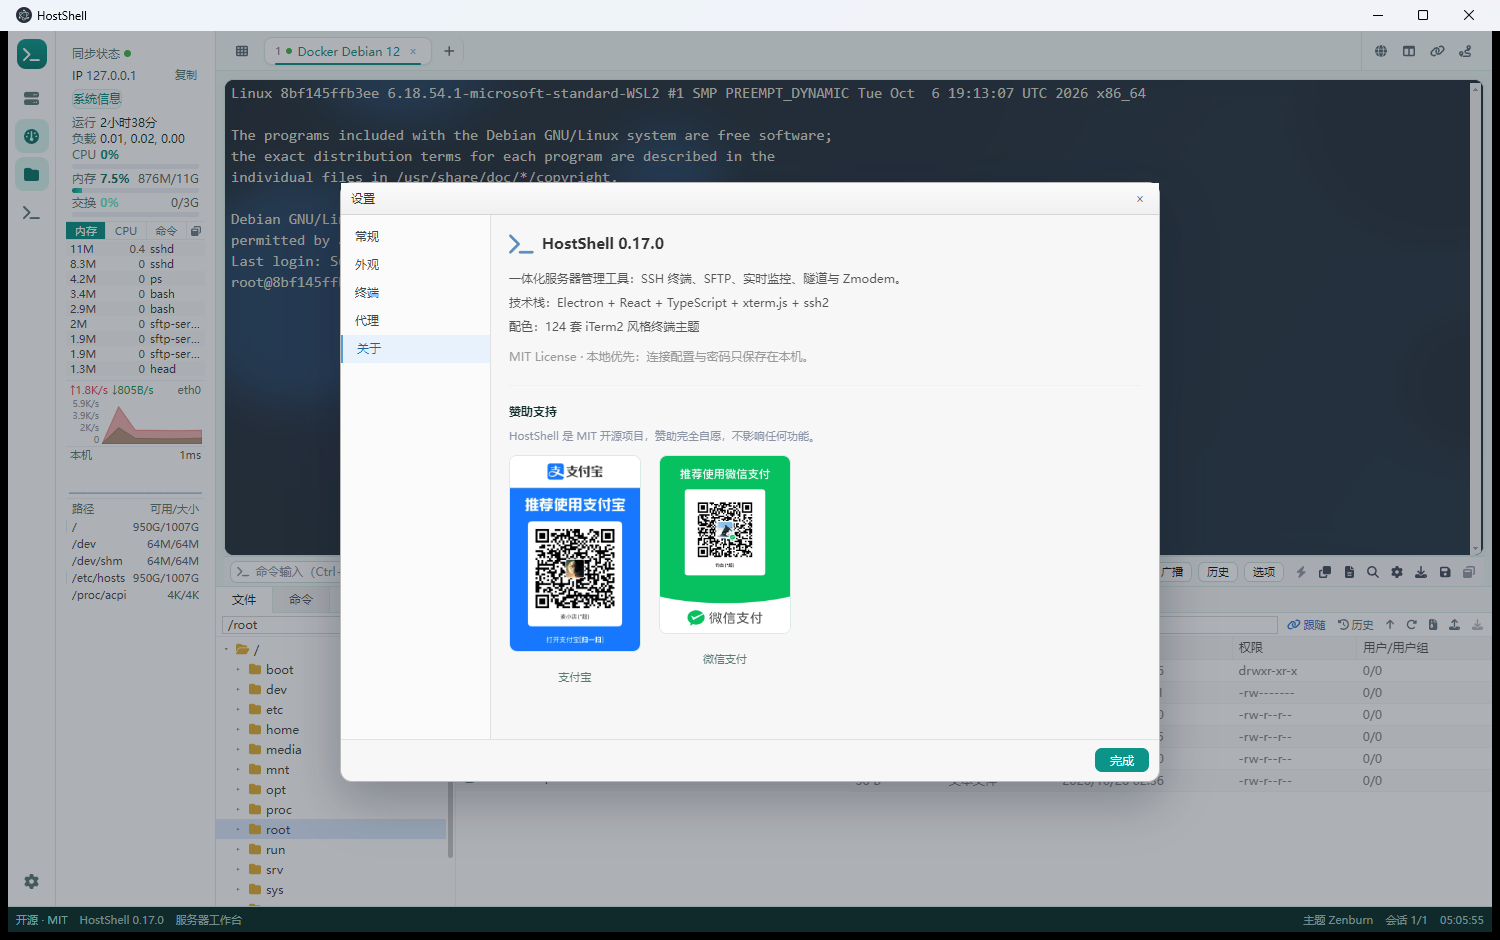
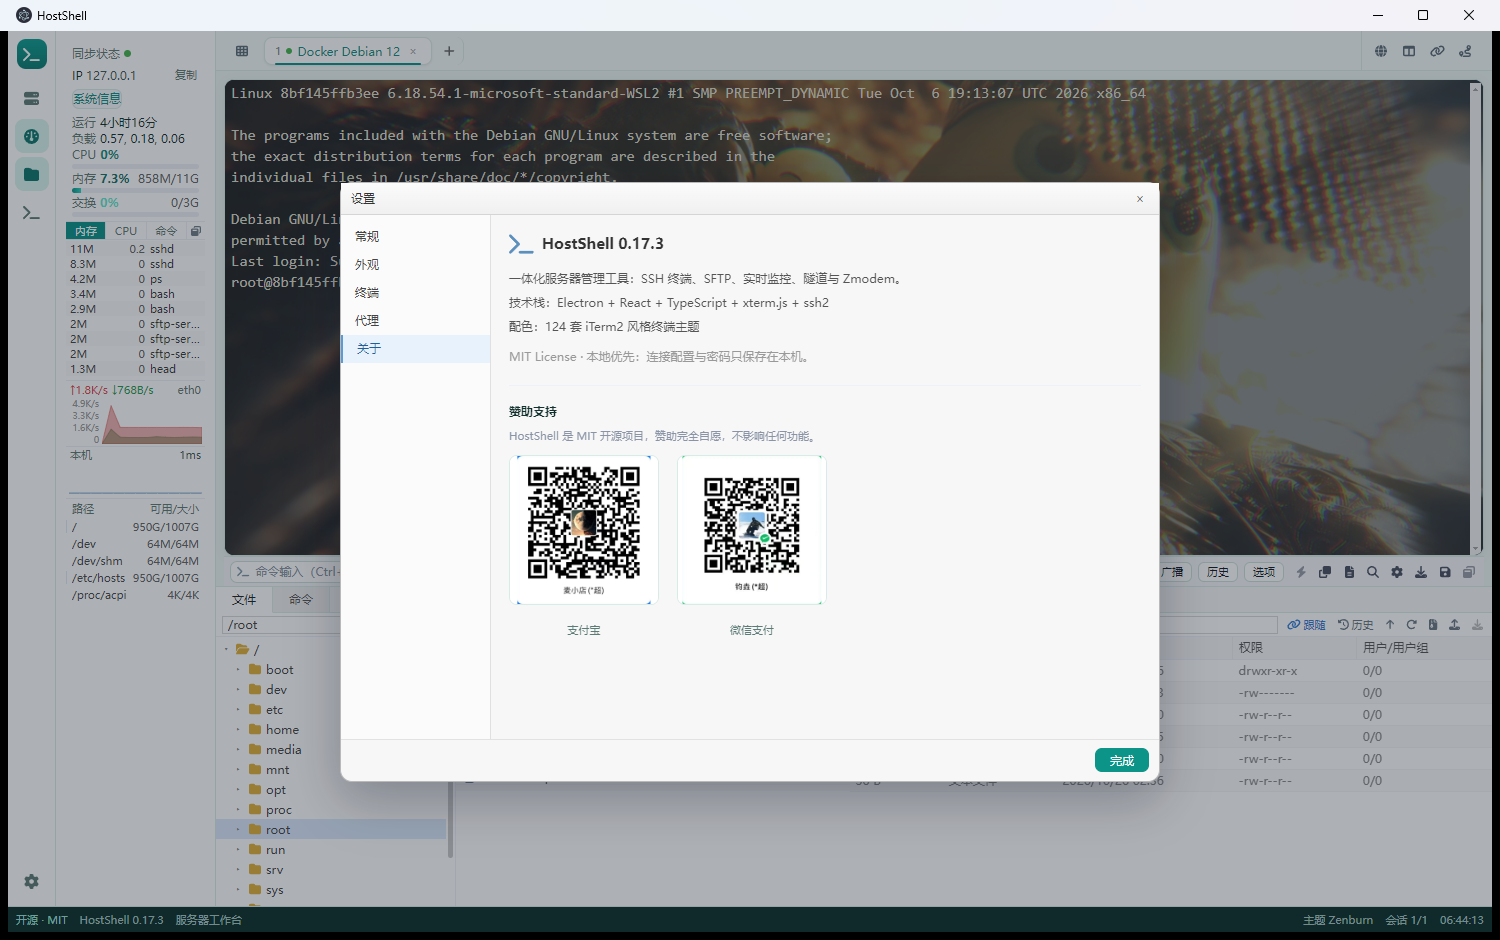
feat(sponsor): equal-size square QR images in app and docs, bump 0.17.4

diff --git a/src/renderer/src/components/SettingsModal.tsx b/src/renderer/src/components/SettingsModal.tsx
@@ -5,8 +5,8 @@ import { THEMES, FONT_FAMILIES } from '../lib/themes'
 import type { ProxyConfig } from '../types'
 import { useT } from '../i18n/useT'
 import { LOCALES, type Locale } from '../i18n'
-import alipayQr from '../assets/sponsor/alipay.jpg'
-import wechatQr from '../assets/sponsor/wechat.jpg'
+import alipayQr from '../assets/sponsor/alipay.png'
+import wechatQr from '../assets/sponsor/wechat.png'
 
 export function SettingsModal(): JSX.Element {
   const config = useApp((s) => s.config)
@@ -360,7 +360,7 @@ export function SettingsModal(): JSX.Element {
               <div style={{ lineHeight: 2, color: '#555' }}>
                 <div style={{ display: 'flex', alignItems: 'center', gap: 8, marginBottom: 8 }}>
                   <Icon name="terminal" style={{ fontSize: 22, color: '#5b8fbe' }} />
-                  <b style={{ fontSize: 15, color: '#333' }}>HostShell 0.17.3</b>
+                  <b style={{ fontSize: 15, color: '#333' }}>HostShell 0.17.4</b>
                 </div>
                 <div>一体化服务器管理工具：SSH 终端、SFTP、实时监控、隧道与 Zmodem。</div>
                 <div>技术栈：Electron + React + TypeScript + xterm.js + ssh2</div>

diff --git a/src/renderer/src/components/StatusBar.tsx b/src/renderer/src/components/StatusBar.tsx
@@ -19,7 +19,7 @@ export function StatusBar(): JSX.Element {
     <div className="statusbar">
       <div className="left">
         <span className="link">{t('status.opensource')}</span>
-        <span>HostShell 0.17.3</span>
+        <span>HostShell 0.17.4</span>
         <span>{t('status.workbench')}</span>
       </div>
       <div className="right">

diff --git a/src/renderer/src/styles.css b/src/renderer/src/styles.css
@@ -2367,8 +2367,9 @@ body {
   text-align: center;
 }
 .sponsor-qr img {
-  width: 132px;
-  height: auto;
+  width: 150px;
+  height: 150px;
+  object-fit: contain;
   border: 1px solid var(--border);
   border-radius: 8px;
   background: #fff;

diff --git a/README.md b/README.md
@@ -53,17 +53,17 @@ npm run dist:setup   # 安装包 → release/HostShell-<version>-setup.exe（NSI
 | 产物 | 说明 |
 |---|---|
 | `release/win-unpacked/` | Windows 免安装目录（232 MB），双击 `HostShell.exe` 直接运行 |
-| `release/HostShell-0.17.3-setup.exe` | Windows 安装包 **约 72 MB**：Program Files 安装、快捷方式、控制面板卸载项 |
-| `release/HostShell-0.17.3-win.zip` | Windows 绿色版 **约 98 MB** |
-| `release/HostShell-0.17.3.dmg` | macOS（Intel）安装镜像 **约 82 MB**（未签名，CI 构建） |
-| `release/HostShell-0.17.3-arm64.dmg` | macOS（Apple Silicon）安装镜像 **约 79 MB**（未签名，CI 构建） |
-| `release/HostShell-0.17.3.AppImage` | Linux 免安装包 **约 74 MB**（CI 构建） |
-| `release/hostshell_0.17.3_amd64.deb` | Debian/Ubuntu 安装包 **约 74 MB**（CI 构建） |
+| `release/HostShell-0.17.4-setup.exe` | Windows 安装包 **约 72 MB**：Program Files 安装、快捷方式、控制面板卸载项 |
+| `release/HostShell-0.17.4-win.zip` | Windows 绿色版 **约 98 MB** |
+| `release/HostShell-0.17.4.dmg` | macOS（Intel）安装镜像 **约 82 MB**（未签名，CI 构建） |
+| `release/HostShell-0.17.4-arm64.dmg` | macOS（Apple Silicon）安装镜像 **约 79 MB**（未签名，CI 构建） |
+| `release/HostShell-0.17.4.AppImage` | Linux 免安装包 **约 74 MB**（CI 构建） |
+| `release/hostshell_0.17.4_amd64.deb` | Debian/Ubuntu 安装包 **约 74 MB**（CI 构建） |
 
 安装包由 `build/installer.nsi` 编译（NSIS 3.04），静默安装/卸载已实测：
 
 ```powershell
-release\HostShell-0.17.3-setup.exe /S /D=C:\path\to\install
+release\HostShell-0.17.4-setup.exe /S /D=C:\path\to\install
 ```
 
 > 首次构建安装包需要 NSIS：下载 `nsis-3.0.4.1.7z`（electron-builder-binaries），
@@ -160,7 +160,7 @@ HostShell 是 MIT 开源项目，不卖授权、没有"升级"版本。如果它
 
 | 支付宝 | 微信支付 |
 |---|---|
-| ![支付宝](docs/sponsor/alipay.jpg) | ![微信支付](docs/sponsor/wechat.jpg) |
+| <img src="docs/sponsor/alipay-qr.png" width="220" alt="Alipay" /> | <img src="docs/sponsor/wechat-qr.png" width="220" alt="WeChat Pay" /> |
 
 赞助完全自愿，不影响任何功能；也欢迎用 Issue / PR 的方式参与。
 

diff --git a/docs/i18n/README.ru.md b/docs/i18n/README.ru.md
@@ -51,7 +51,7 @@ HostShell — открытый проект под MIT: без лицензий 
 
 | Alipay | WeChat Pay |
 |---|---|
-| ![Alipay](../sponsor/alipay.jpg) | ![WeChat Pay](../sponsor/wechat.jpg) |
+| <img src="../sponsor/alipay-qr.png" width="200" alt="Alipay" /> | <img src="../sponsor/wechat-qr.png" width="200" alt="WeChat Pay" /> |
 
 Поддержка добровольна и ничего не разблокирует. Issues и pull requests также приветствуются.
 

diff --git a/docs/i18n/README.ko.md b/docs/i18n/README.ko.md
@@ -52,7 +52,7 @@ HostShell은 MIT 오픈소스이며 라이선스 판매나 "업그레이드" 버
 
 | Alipay | WeChat Pay |
 |---|---|
-| ![Alipay](../sponsor/alipay.jpg) | ![WeChat Pay](../sponsor/wechat.jpg) |
+| <img src="../sponsor/alipay-qr.png" width="200" alt="Alipay" /> | <img src="../sponsor/wechat-qr.png" width="200" alt="WeChat Pay" /> |
 
 후원은 전적으로 자발적이며 기능에 영향을 주지 않습니다. Issue / PR도 환영합니다.
 

diff --git a/README.en.md b/README.en.md
@@ -113,7 +113,7 @@ HostShell is MIT open source — no licenses, no "pro" edition. If it helps you,
 
 | Alipay | WeChat Pay |
 |---|---|
-| ![Alipay](docs/sponsor/alipay.jpg) | ![WeChat Pay](docs/sponsor/wechat.jpg) |
+| <img src="docs/sponsor/alipay-qr.png" width="220" alt="Alipay" /> | <img src="docs/sponsor/wechat-qr.png" width="220" alt="WeChat Pay" /> |
 
 Sponsorship is entirely optional and unlocks nothing. Issues and pull requests are equally welcome.
 

diff --git a/docs/i18n/README.fr.md b/docs/i18n/README.fr.md
@@ -51,7 +51,7 @@ HostShell est un projet open source MIT — pas de licence, pas d'édition « pr
 
 | Alipay | WeChat Pay |
 |---|---|
-| ![Alipay](../sponsor/alipay.jpg) | ![WeChat Pay](../sponsor/wechat.jpg) |
+| <img src="../sponsor/alipay-qr.png" width="200" alt="Alipay" /> | <img src="../sponsor/wechat-qr.png" width="200" alt="WeChat Pay" /> |
 
 Le soutien est facultatif et ne débloque rien. Les issues et pull requests sont tout aussi bienvenues.
 

diff --git a/docs/i18n/README.de.md b/docs/i18n/README.de.md
@@ -51,7 +51,7 @@ HostShell ist MIT-Open-Source — keine Lizenzen, keine „Pro"-Version. Wenn es
 
 | Alipay | WeChat Pay |
 |---|---|
-| ![Alipay](../sponsor/alipay.jpg) | ![WeChat Pay](../sponsor/wechat.jpg) |
+| <img src="../sponsor/alipay-qr.png" width="200" alt="Alipay" /> | <img src="../sponsor/wechat-qr.png" width="200" alt="WeChat Pay" /> |
 
 Sponsoring ist freiwillig und schaltet nichts frei. Issues und Pull Requests sind genauso willkommen.
 

diff --git a/docs/i18n/README.es.md b/docs/i18n/README.es.md
@@ -51,7 +51,7 @@ HostShell es código abierto MIT — sin licencias ni edición «pro». Si te re
 
 | Alipay | WeChat Pay |
 |---|---|
-| ![Alipay](../sponsor/alipay.jpg) | ![WeChat Pay](../sponsor/wechat.jpg) |
+| <img src="../sponsor/alipay-qr.png" width="200" alt="Alipay" /> | <img src="../sponsor/wechat-qr.png" width="200" alt="WeChat Pay" /> |
 
 El patrocinio es opcional y no desbloquea nada. Las issues y pull requests son igual de bienvenidas.
 

diff --git a/docs/i18n/README.pt-BR.md b/docs/i18n/README.pt-BR.md
@@ -51,7 +51,7 @@ HostShell é código aberto MIT — sem licenças, sem edição "pro". Se ele aj
 
 | Alipay | WeChat Pay |
 |---|---|
-| ![Alipay](../sponsor/alipay.jpg) | ![WeChat Pay](../sponsor/wechat.jpg) |
+| <img src="../sponsor/alipay-qr.png" width="200" alt="Alipay" /> | <img src="../sponsor/wechat-qr.png" width="200" alt="WeChat Pay" /> |
 
 O apoio é opcional e não desbloqueia nada. Issues e pull requests são igualmente bem-vindos.
 
